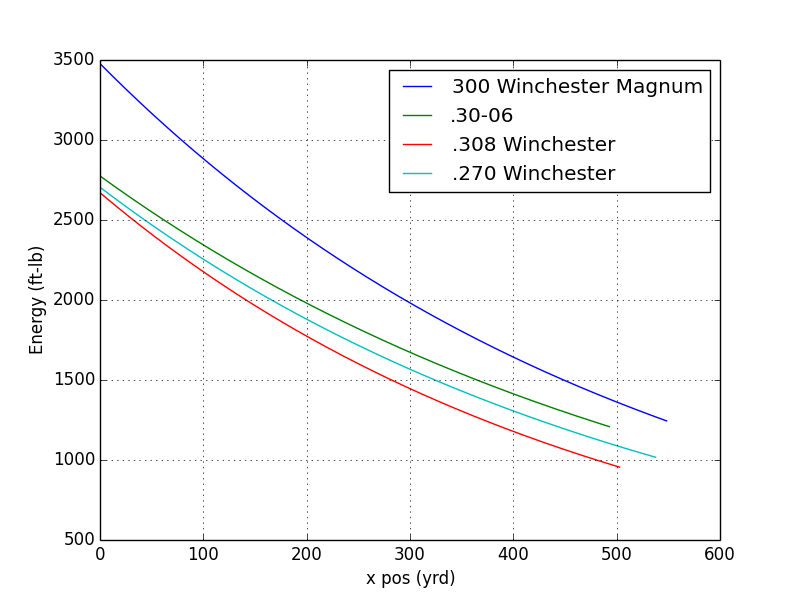
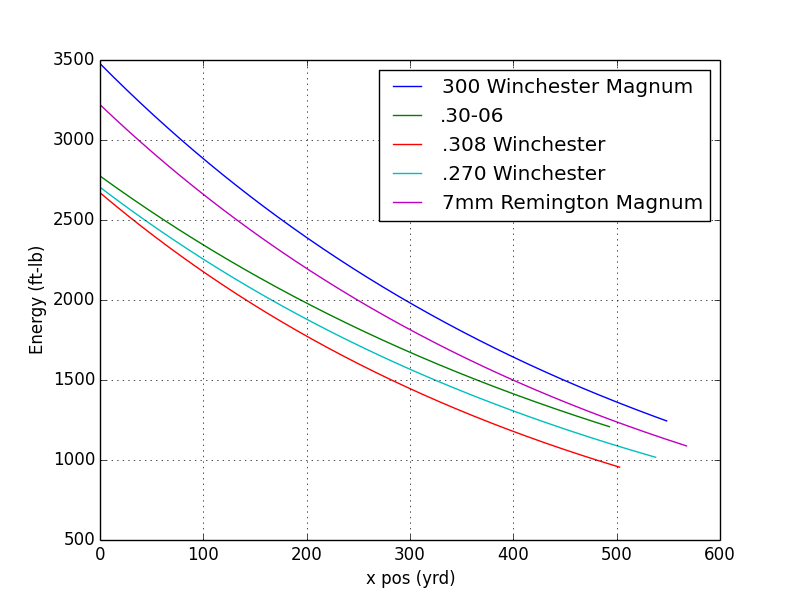
Added 7mm

diff --git a/ballistics.py b/ballistics.py
@@ -246,7 +246,8 @@ class Bullet22LR( Ballistics ) :
     m = 30*Ballistics.grain2kg
     
     
-"""Desired characteristics:
+"""
+Desired characteristics:
 
 1) Straight trajectory
   a) High initial velocity
@@ -258,10 +259,11 @@ class Bullet22LR( Ballistics ) :
   a) Small mass
   b) Low initial velocity
 
-Clearly there are contradictions between these two.  One thing that is
+3) Take down power
+
+Clearly there are contradictions between these.  One thing that is
 clear is we want small diameter.  That seems to be a good thing no
-matter what.  I'm not considering "take down power," which is yet a
-further contradiction.
+matter what. 
 
 """
 
@@ -271,8 +273,8 @@ if __name__ == '__main__' :
                Bullet300WinMag(),
                Bullet30_06(),
                Bullet308Winchester(),
-        Bullet270Winchester()]
-               #Bullet7mmRemMag(),
+        Bullet270Winchester(),
+               Bullet7mmRemMag()]
                #Bullet65mmLapua()]
 
 
